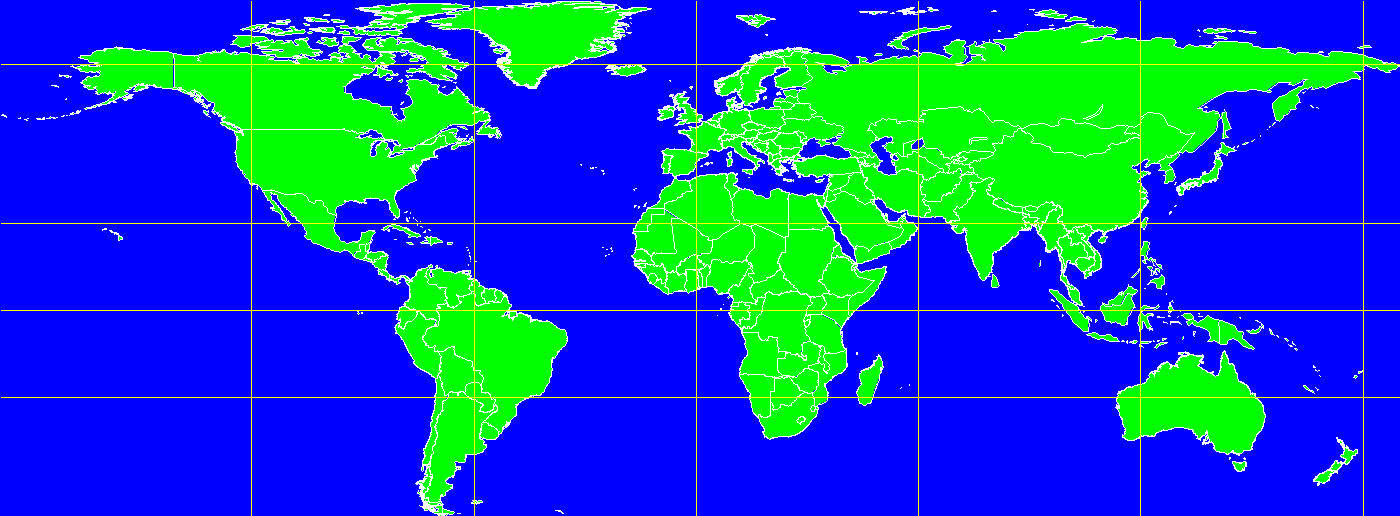
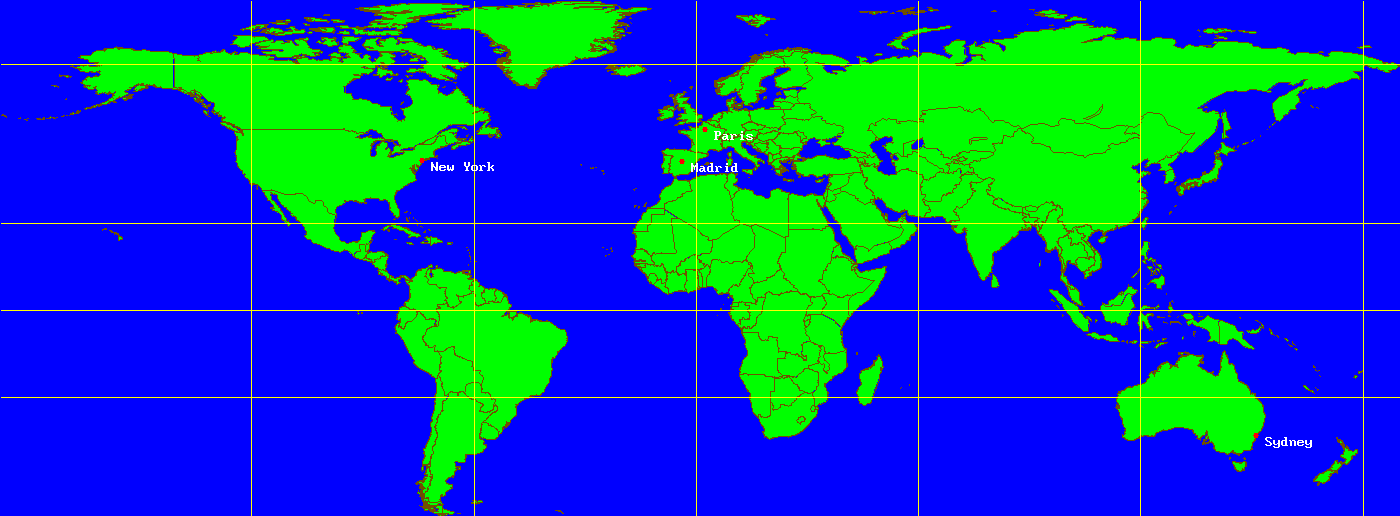
Add pointing feature to "trace" program

diff --git a/src/trace.c b/src/trace.c
@@ -90,6 +90,7 @@ int main(int argc, char **argv){
     map_t *map;
     yColor *backColor, *countriesColor, *fillColor;
     yColor *meridian_c; // color for the meridians and parallels
+    yColor *points_c, *text_c;
 
     y_init_logs(argv[0], Y_LOG_MODE_CONSOLE, Y_LOG_LEVEL_DEBUG, NULL, NULL);
 
@@ -105,7 +106,7 @@ int main(int argc, char **argv){
     /* Create image */
 
     backColor = y_color(BLUE);
-    countriesColor= y_color(WHITE);
+    countriesColor= y_color(MARRON);
     fillColor=y_color(GREEN);
     map = map_create_with_bln(argv[1], backColor, countriesColor, fillColor, EPSG_4326, width, height);
     free(backColor);
@@ -118,8 +119,13 @@ int main(int argc, char **argv){
 
 
     // POINTAGE
-    //if(argc==3) traite_csv(f,argv[2],ROND,3,ROUGE,JAUNE);
-
+    if(argc==3) {
+        points_c = y_color(RED);
+        text_c = y_color(WHITE);
+        map_point(map, argv[2], ROUND, 3, points_c, text_c);
+        free(points_c);
+        free(text_c);
+    }
 
     // END
     y_log_message(Y_LOG_LEVEL_INFO, "Creating file %s", "output_trace_y.png");

diff --git a/README.md b/README.md
@@ -35,6 +35,6 @@ The program output shows the same data with a better background :
 
 ### BLN data representation
 
-The program `trace` create a graphic representation of the data of file [world.bln](data/world.bln).
+The program `trace` can create a graphic representation of the data of file [world.bln](data/world.bln), and also plot some cities from file [cities.csv](data/cities.csv).
 
 ![world](assets/world.png)
